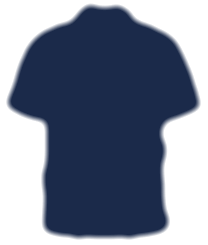
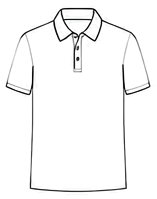
feat(frontend): use real illustrated artwork for all 8 template shapes
Front assets were previously a mix of a flood-filled/blurred solid
silhouette (destroying the actual illustrated detail — buttons,
collars, lapels) and, for kimono, an auto-generated placeholder blob
with no matching artwork at all. Re-sliced all 8 templates' front and
back views from the provided reference sheets, including a proper
kimono for the first time.

ChooseShapeStep now renders these with mode="image" (plain image
display) instead of mode="mask" (CSS mask + solid-color/fabric
compositing) — this step always runs before fabric upload in the
current flow order, so there was never a real fabric image to
composite anyway, and masking only hid the artwork's detail.

Also forces mask-mode: alpha explicitly in GarmentRenderer's
PartPreview for any remaining mode="mask" usage elsewhere in the app,
since raster PNG masks with dark fills are ambiguous between
alpha-based and luminance-based masking across browsers.

diff --git a/frontend/components/tailor/steps/ChooseShapeStep.tsx b/frontend/components/tailor/steps/ChooseShapeStep.tsx
@@ -4,17 +4,16 @@
  * ChooseShapeStep — ขั้น "เลือกเทมเพลต" ของ Flow 1 (สั่งตัดด้วยผ้าที่มีอยู่แล้ว)
  *
  * ปรับตามสเปค "LAYA Template System" (services.png): LAYA เป็นเจ้าของ Template Library มาตรฐาน
- * ลูกค้าเลือกจากเทมเพลตที่มีอยู่ (ไม่ใช่ custom ทีละชิ้นส่วนแบบเดิมอีกต่อไป) แต่ละเทมเพลตมี 2 มุมมอง
- * (หน้า/หลัง) ระบบนำผ้าที่ลูกค้าอัปโหลดไว้มา map เป็น Preview ให้ดูก่อนสั่งจริง (Preview Engine)
+ * ลูกค้าเลือกจากเทมเพลตที่มีอยู่ (ไม่ใช่ custom ทีละชิ้นส่วนแบบเดิมอีกต่อไป) แต่ละเทมเพลตมี 2 มุมมอง (หน้า/หลัง)
  *
  * Step นี้มาหลัง "เลือกร้านตัดเย็บ" (select_shop) เสมอ — แสดง template ทั้งหมดของ LAYA (ไม่ซ่อนอันไหน)
  * แต่ template ที่ร้านที่เลือกไว้ "ไม่รับตัด" จะถูก disable ไว้ (คลิกไม่ได้ + mờ + ป้ายกำกับ) แทนการซ่อน —
  * ให้ลูกค้าเห็นภาพรวม catalog ทั้งหมดของ LAYA แต่ก็รู้ทันทีว่าอันไหนสั่งกับร้านนี้ไม่ได้ (เหมือน UI ฝั่งร้านค้า)
  *
- * เทมเพลตทั้งหมดตอนนี้เป็น placeholder silhouette (auto-generated) รอ asset จริงจาก designer —
- * สลับเป็นภาพจริงได้แค่แก้ path ใน catalog.json (templateLibrary) ไม่ต้องแก้โค้ดหน้านี้เลย
- *
- * พรีวิวใช้รูปผ้าจริงที่ผู้ใช้อัปโหลดไว้เสมอ (แทนลายผ้าใน catalog) เพราะ flow นี้คือ "มีผ้าอยู่แล้ว"
+ * แสดงภาพเทมเพลตจริงแบบ mode="image" ตรงๆ (ไม่ใช่ mode="mask" ผสมลายผ้าเหมือนที่เคยตั้งใจไว้) เพราะ:
+ * 1) ตอนนี้ step นี้อยู่ก่อนขั้นอัปโหลดผ้า (upload) เสมอ — orderState.fabricImage ยังไม่มีค่าให้ผสมอยู่ดี
+ * 2) การแปลงภาพ artwork จริง (เส้น/กระดุม/ปกเสื้อ) ให้เป็น solid silhouette สำหรับทำ mask จะทำลายรายละเอียด
+ *    ของภาพจริงไปหมด เหลือแค่ blob ทึบสีเดียว ดูไม่ออกว่าเป็นภาพชุดไหน — ขัดกับจุดประสงค์ที่อยากให้เห็นภาพจริง
  */
 
 import { useEffect, useMemo, useState } from "react";
@@ -67,7 +66,6 @@ export default function ChooseShapeStep({ orderState, setOrderState, onNext }: a
   const [selectedId, setSelectedId] = useState<string | null>(orderState.shape?.id ?? null);
   const [view, setView] = useState<"front" | "back">("front");
 
-  const fabricImage: string | undefined = orderState.fabricImage;
   const shopId: string | undefined = orderState.shop?.id;
   const shopName: string | undefined = orderState.shop?.name;
 
@@ -243,7 +241,7 @@ export default function ChooseShapeStep({ orderState, setOrderState, onNext }: a
                       </Box>
                     )}
                     <Box sx={{ width: "100%", aspectRatio: "1/1.3", bgcolor: "#FBF9F5", borderRadius: "10px", p: 1.5 }}>
-                      <PartPreview asset={tpl.front} mode="mask" patternImage={available ? fabricImage ?? null : null} color={available && fabricImage ? null : "#C9B896"} />
+                      <PartPreview asset={tpl.front} mode="image" patternImage={null} color={null} />
                     </Box>
                     <Typography sx={{ fontFamily: FONT, fontWeight: 600, color: NAVY, fontSize: "0.85rem" }}>{tpl.name}</Typography>
                   </Box>
@@ -282,8 +280,8 @@ export default function ChooseShapeStep({ orderState, setOrderState, onNext }: a
             width: "100%", height: 320, borderRadius: "18px", bgcolor: "#FBF9F5", border: "1px solid #EFE9DD",
             boxShadow: "0 4px 20px rgba(27,42,74,0.06)", p: 2.5, position: "relative",
           }}>
-            <PartPreview asset={view === "front" ? selected.front : selected.back} mode="mask"
-              patternImage={fabricImage ?? null} color={fabricImage ? null : "#C9B896"} />
+            <PartPreview asset={view === "front" ? selected.front : selected.back} mode="image"
+              patternImage={null} color={null} />
             <Box sx={{ position: "absolute", top: 10, left: 10, bgcolor: "rgba(27,42,74,0.85)", color: "white", px: 1.5, py: 0.4, borderRadius: "999px" }}>
               <Typography sx={{ fontFamily: FONT, fontSize: "0.7rem", fontWeight: 600 }}>{selected.name}</Typography>
             </Box>

diff --git a/frontend/components/design-clothes/builder/GarmentRenderer.tsx b/frontend/components/design-clothes/builder/GarmentRenderer.tsx
@@ -160,6 +160,11 @@ export function PartPreview({ asset, patternImage, color, mode }: {
         backgroundSize: '90px 90px',
         backgroundRepeat: 'repeat',
         backgroundBlendMode: patternImage ? 'multiply' : undefined,
+        // ระบุ mask-mode ตรงๆ ว่าใช้ alpha channel ของรูป — เดิมปล่อยเป็นค่า default (match-source) ตอนใช้ SVG
+        // placeholder แบบ solid fill ไม่มีปัญหา แต่พอเปลี่ยนมาใช้ PNG จริง (เส้นขอบ anti-alias, สี navy เข้ม)
+        // บางเบราว์เซอร์/บาง engine ตีความ default เป็น luminance mask แทน ทำให้พื้นที่สีเข้ม (navy) กับพื้นหลัง
+        // โปร่งใสมี luminance ใกล้เคียงกัน (ทั้งคู่ต่ำ) จนมาสก์ทั้งรูปดูเหมือนหายไปหมด — บังคับ alpha ชัดเจนกันปัญหานี้
+        ...({ WebkitMaskMode: 'alpha', maskMode: 'alpha' } as React.CSSProperties),
       }}
     />
   );
